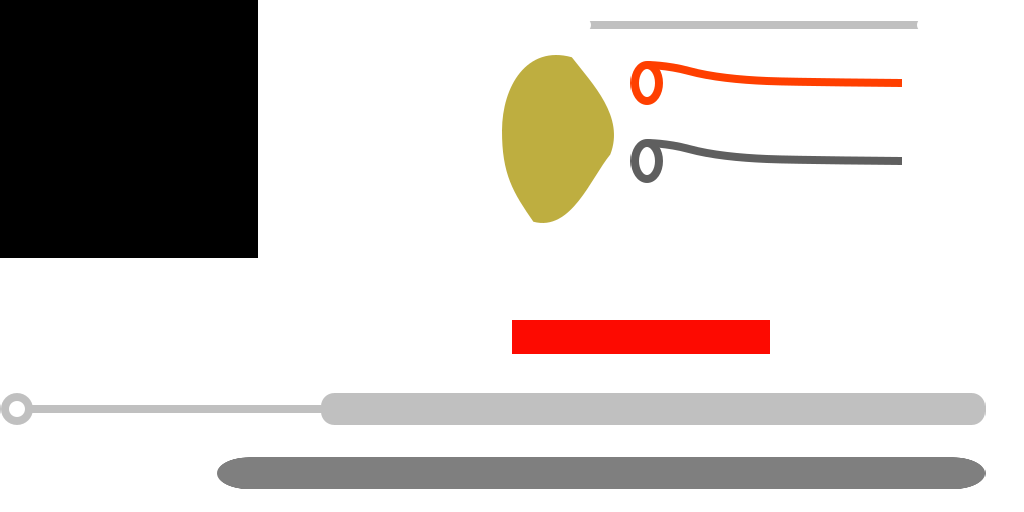
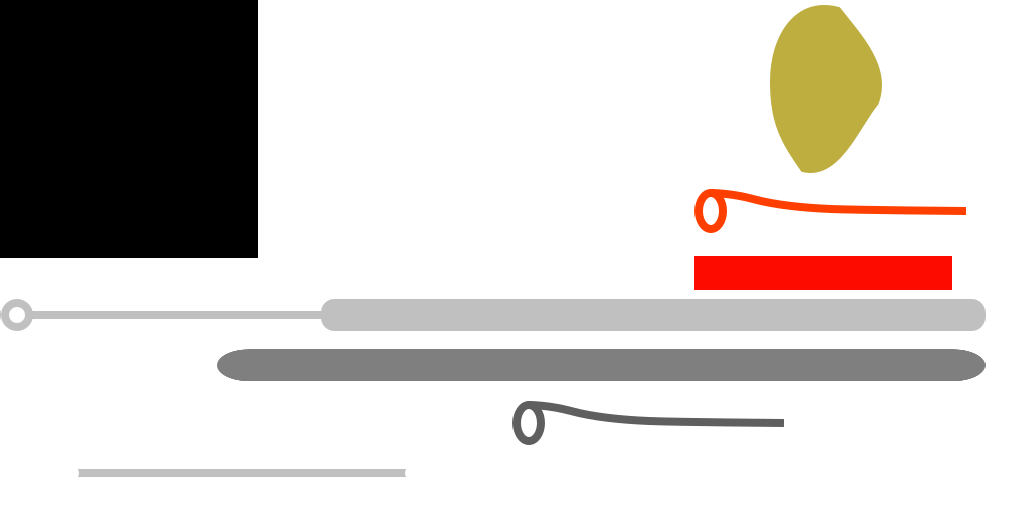
streaking experiment 1.0.2.1 some visual tweaks to prevent artifacts

Changed region(s): [[0.0, 0.5, 0.9688, 0.9688], [0.4688, 0.0, 0.9062, 0.4375], [0.6562, 0.3438, 0.9375, 0.4688]]

diff --git a/streaking/experiment/scripts/c3runtime.js b/streaking/experiment/scripts/c3runtime.js
@@ -1012,8 +1012,8 @@ e.A.Text.Xa.Bx,e.A.ua.Xa.RD,e.A.ua.Xa.Ol,e.A.ua.La.saa,e.A.ua.La.taa,e.A.ab.Xa.e
 8,()=>"",()=>200,a=>{const f=a.H(0).Ga(),c=a.H(1);return()=>f(c.ad()/2-16)},a=>{const f=a.H(0).Ga();return()=>f(360)},a=>{const f=a.H(0).ub,c=a.H(1).ub,d=a.H(2).ub;return()=>b(f.Va(),Math.cos(e.nb(c.Va()))*d.Va())+"|"},a=>{const f=a.H(0).ub,c=a.H(1).ub,d=a.H(2).ub;return()=>b(f.Va(),-1*Math.sin(e.nb(c.Va()))*d.Va())+"|"},a=>{const f=a.H(0).Ga(),c=a.H(1).ub,d=a.H(2).Ga(),h=a.H(3).ub,k=a.H(4).Ga(),l=a.H(5).ub,p=a.H(6).Ga(),n=a.H(7).ub;return()=>f(c.Va(),d(h.Va())-1)+";"+k(l.Va(),p(n.Va())-1)},a=>{const f=
 a.H(0);return()=>f.ad()},()=>"Swab",()=>90,()=>"Use swab first",()=>"Disposable",a=>{const f=a.H(0).ub;return()=>f.Va()},a=>{const f=a.H(0).Ga(),c=a.H(1).ub;return()=>f()+1E3*c.Va()},()=>100,a=>{const f=a.H(0).Ga();return()=>f()},a=>{const f=a.H(0),c=a.H(1).Ga(),d=a.H(2).ub;return()=>f.ad()-c()*d.Va()},a=>{const f=a.H(0).Ga(),c=a.H(1),d=a.H(2).Ga(),h=a.H(3);return()=>(f()-c.ad())/d()*18+.8*h.ad()},a=>{const f=a.H(0).Ga(),c=a.H(1).ub;return()=>f(c.Va(),0,";")},a=>{const f=a.H(0).Ga(),c=a.H(1).ub;return()=>
 f(c.Va(),1,";")},a=>{const f=a.H(0).Ga(),c=a.H(1).ub;return()=>f(c.Va(),"|")-1},a=>{const f=a.H(0),c=a.H(1).Ga(),d=a.H(2).Ga(),h=a.H(3).ub,k=a.H(4).Ga(),l=a.H(5).Ga();return()=>f.ad()+c(d(h.Va(),k(),"|"))-4+l(8)},a=>{const f=a.H(0).Ga();return()=>12+f(12)},a=>{const f=a.H(0).Ga();return()=>f("White","White","Yellow","Red")},()=>"Button",a=>{const f=a.H(0);return()=>Math.floor(.875*f.TJ())},a=>{const f=a.H(0);return()=>f.TJ()},a=>{const f=a.H(0).Ga(),c=a.H(1).Ga();return()=>f()+c()},a=>{const f=a.H(0);
-return()=>f.ne()},()=>"Steralize first",()=>"You don't need the old plate anymore",()=>360,a=>{const f=a.H(0).Ga(),c=a.H(1).Ga(),d=a.H(2).ub,h=a.H(3).ub;return()=>e.Ki(f(),c(),d.Va(),h.Va())},()=>"Swab an object first.",()=>"Start in the top section and streak side to side. Try again",()=>"You need to streak across your last path to pick up some bacteria.",()=>"Start in the top section and streak down to the right section. Try again.",()=>12,()=>"Start in the right section and streak over to the left. Try again.",
-()=>16,()=>"Start in the lower right and streak over to the lower left, try again",()=>"Don\u2019t streak twice in a row with the same tool.",a=>{const f=a.H(0),c=a.H(1),d=a.H(2).ub,h=a.H(3).ub;return()=>e.Ki(f.ad(),c.ad(),d.Va(),h.Va())},()=>1E3,()=>9,a=>{const f=a.H(0).Ga(),c=a.H(1);return()=>f()%c.ne()},a=>{const f=a.H(0).Ga();return()=>f(1)},a=>{const f=a.H(0).ub,c=a.H(1),d=a.H(2);return()=>b(f.Va(),c.ad()-d.ad())+"|"},a=>{const f=a.H(0).Ga(),c=a.H(1);return()=>f()%e.ea(c.ne()-1,1,100)},a=>{const f=
+return()=>f.ne()},()=>"Pick up a clean tool",()=>"You don't need the objects anymore",()=>360,a=>{const f=a.H(0).Ga(),c=a.H(1).Ga(),d=a.H(2).ub,h=a.H(3).ub;return()=>e.Ki(f(),c(),d.Va(),h.Va())},()=>"Swab an object first.",()=>"Start in the top section and streak side to side. Try again",()=>"You need to streak across your last path to pick up some bacteria.",()=>"Start in the top section and streak down to the right section. Try again.",()=>12,()=>"Start in the right section and streak over to the left. Try again.",
+()=>16,()=>"Start in the lower right and streak over to the lower left, try again",()=>"Don\u2019t streak twice in a row with the same tool.",a=>{const f=a.H(0),c=a.H(1),d=a.H(2).ub,h=a.H(3).ub;return()=>e.Ki(f.ad(),c.ad(),d.Va(),h.Va())},()=>900,()=>9,a=>{const f=a.H(0).Ga(),c=a.H(1);return()=>f()%c.ne()},a=>{const f=a.H(0).Ga();return()=>f(1)},a=>{const f=a.H(0).ub,c=a.H(1),d=a.H(2);return()=>b(f.Va(),c.ad()-d.ad())+"|"},a=>{const f=a.H(0).Ga(),c=a.H(1);return()=>f()%e.ea(c.ne()-1,1,100)},a=>{const f=
 a.H(0).ub,c=a.H(1),d=a.H(2);return()=>b(f.Va(),c.ad(1)-d.ad())+"|"},a=>{const f=a.H(0).Ga();return()=>f()+10},()=>"Streak farther. Try again",a=>{const f=a.H(0).Ga(),c=a.H(1),d=a.H(2).Ga(),h=a.H(3),k=a.H(4),l=a.H(5).Ga(),p=a.H(6),n=a.H(7).Ga(),t=a.H(8),q=a.H(9);return()=>"Waiting 24 Hours\n"+f(Math.floor(24*((c.ne()-d())/(h.ne()-k.ne()))),2)+":"+l(Math.floor(24*((p.ne()-n())/(t.ne()-q.ne()))%1*60),2)},()=>.1,a=>{const f=a.H(0).Ga(),c=a.H(1).Ga(),d=a.H(2),h=a.H(3),k=a.H(4).Ga(),l=a.H(5),p=a.H(6);return()=>
 60*Math.pow(f(c()-d.ne(),h.ne()-k())/(l.ne()-p.ne())*2,.25)},a=>{const f=a.H(0);return()=>f.ad()+.5},a=>{const f=a.H(0),c=a.H(1),d=a.H(2).Ga(),h=a.H(3),k=a.H(4);return()=>f.ad()+c.ne()*(d()/(h.ne()-k.ne()))},a=>{const f=a.H(0).ub;return()=>"Good Job "+f.Va()+".Take a screenshot"},a=>{const f=a.H(0).ub;return()=>b("Completed Code: ",f.Va())},a=>{const f=a.H(0).Ga(),c=a.H(1).Ga();return()=>f()+" - "+c()+" - (C) Wild Haired Science Teacher - whscience.org"},a=>{const f=a.H(0),c=a.H(1);return()=>f.ad()+
 c.ad()/2+2},()=>"Don't throw that away yet. You still need it.",a=>{const f=a.H(0).Ga(),c=a.H(1).Ga(),d=a.H(2).Ga(),h=a.H(3).Ga();return()=>Math.ceil(f(9)).toString()+c(7*Math.floor(d(1E4)),5)+Math.ceil(h(9)).toString()},()=>"Fix First Name",()=>"Fix Last Name",a=>{const f=a.H(0).Ga(),c=a.H(1),d=a.H(2);return()=>f(c.ad()+" "+d.ad())},a=>{const f=a.H(0).Ga(),c=a.H(1).ub;return()=>f(c.Va())-1},a=>{const f=a.H(0).Ga(),c=a.H(1).ub,d=a.H(2).Ga(),h=a.H(3).ub,k=a.H(4).Ga();return()=>f(c.Va(),d(h.Va(),k(),
